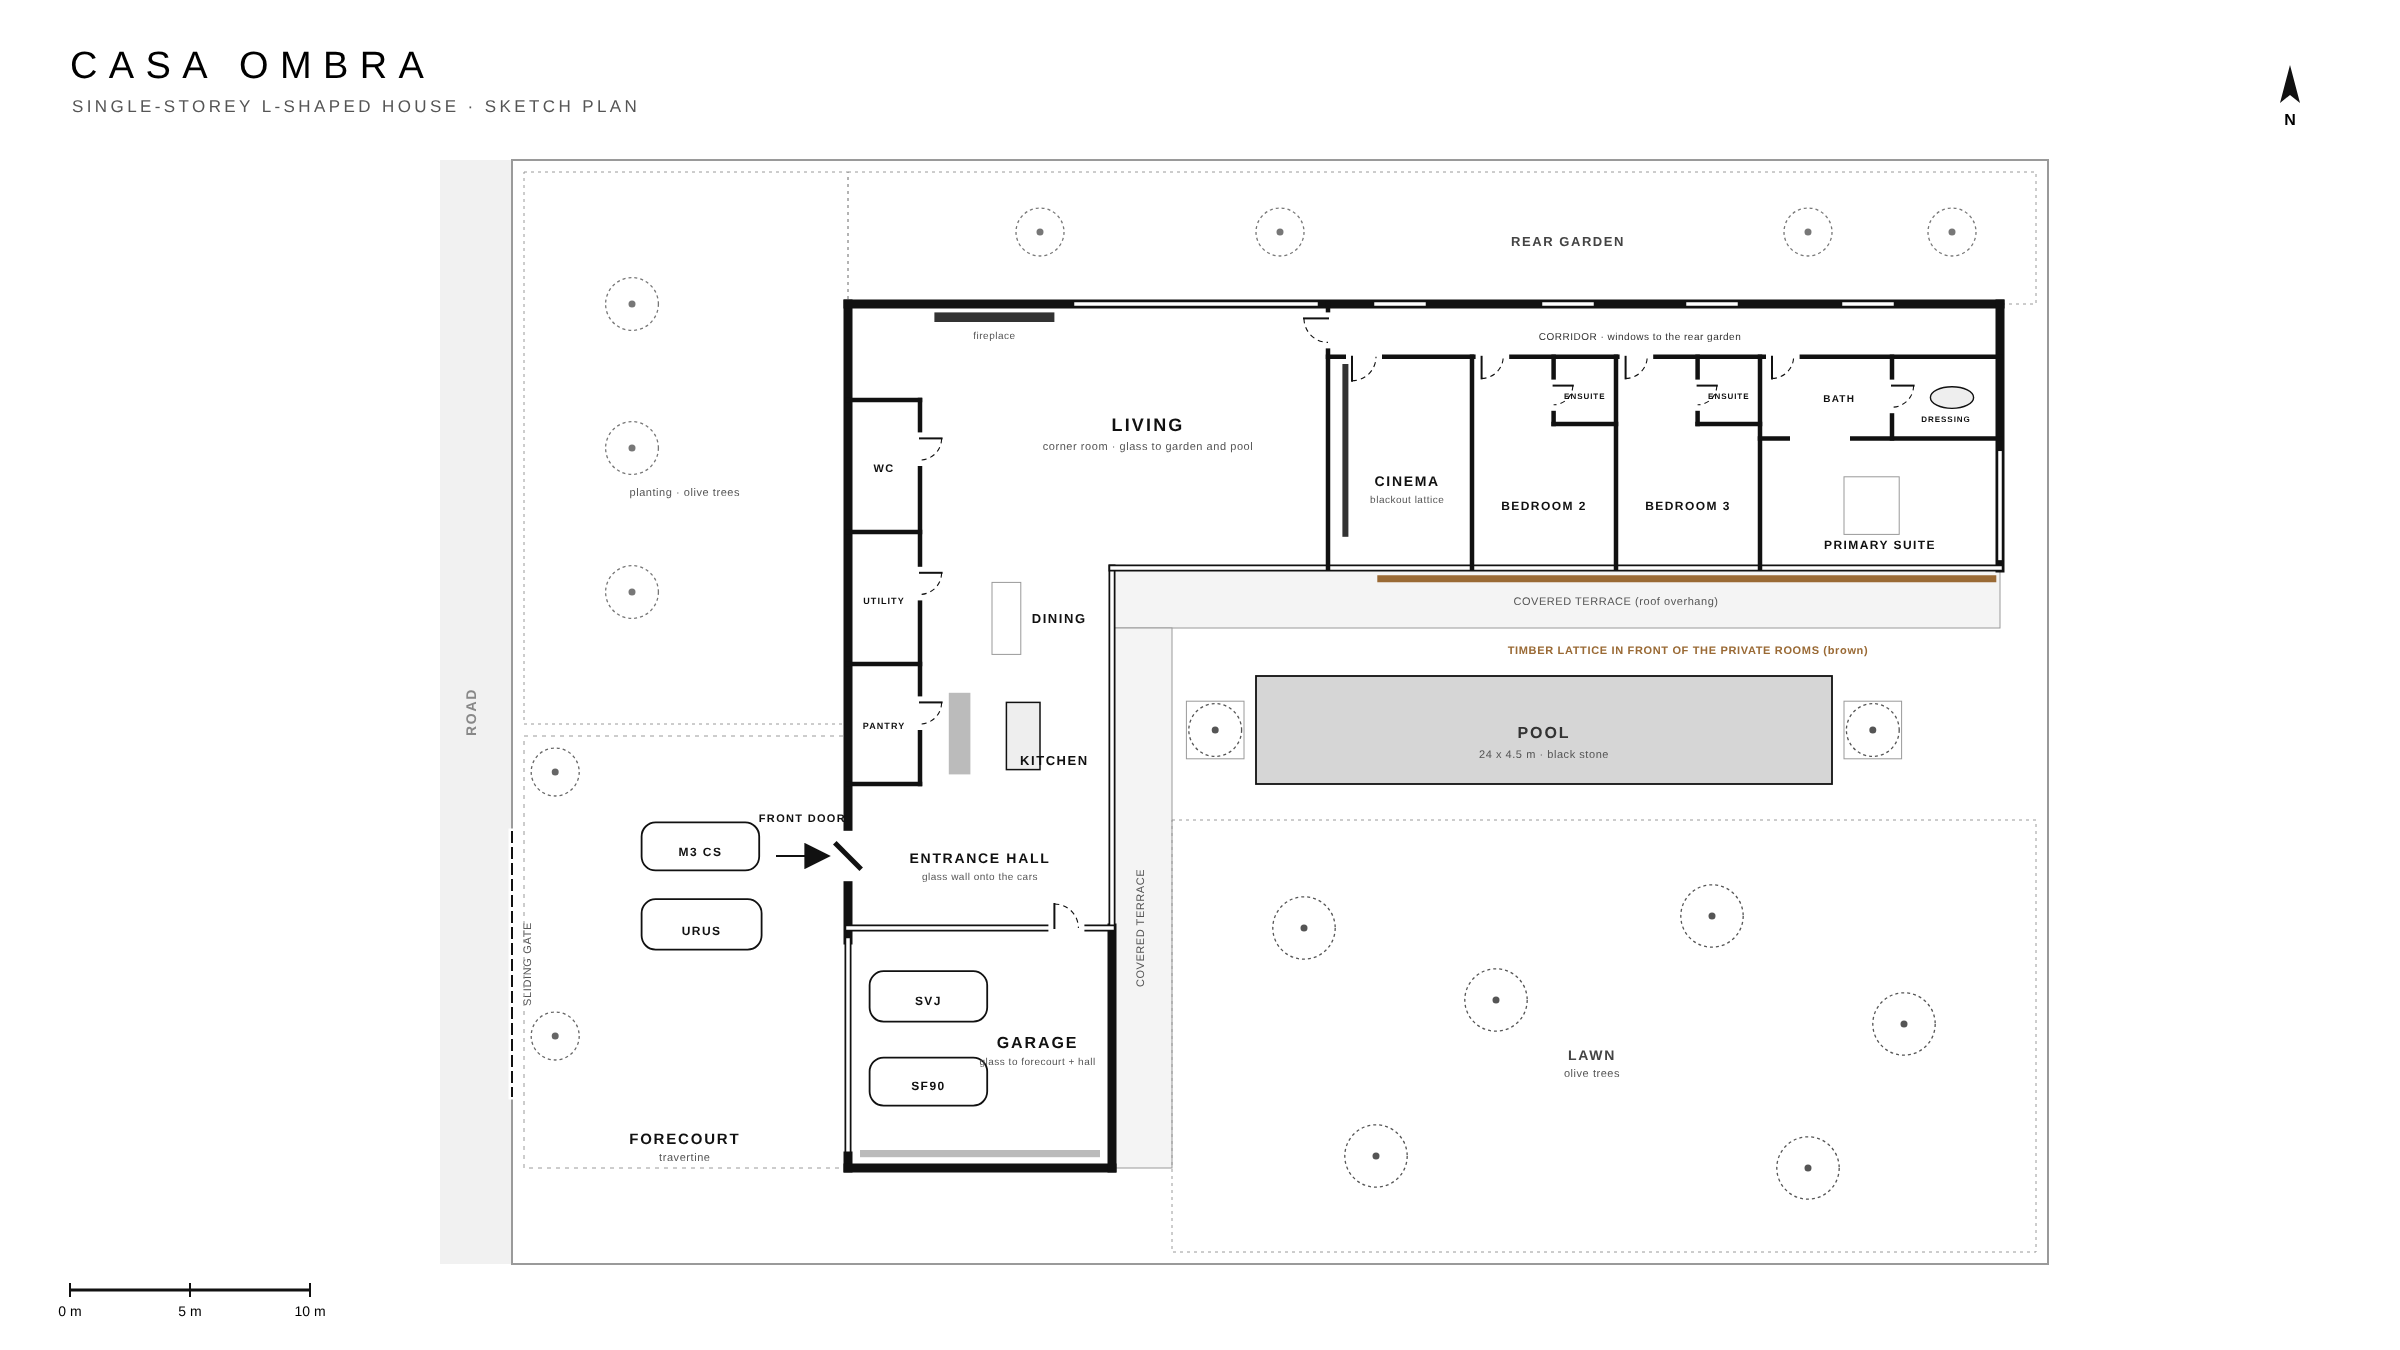
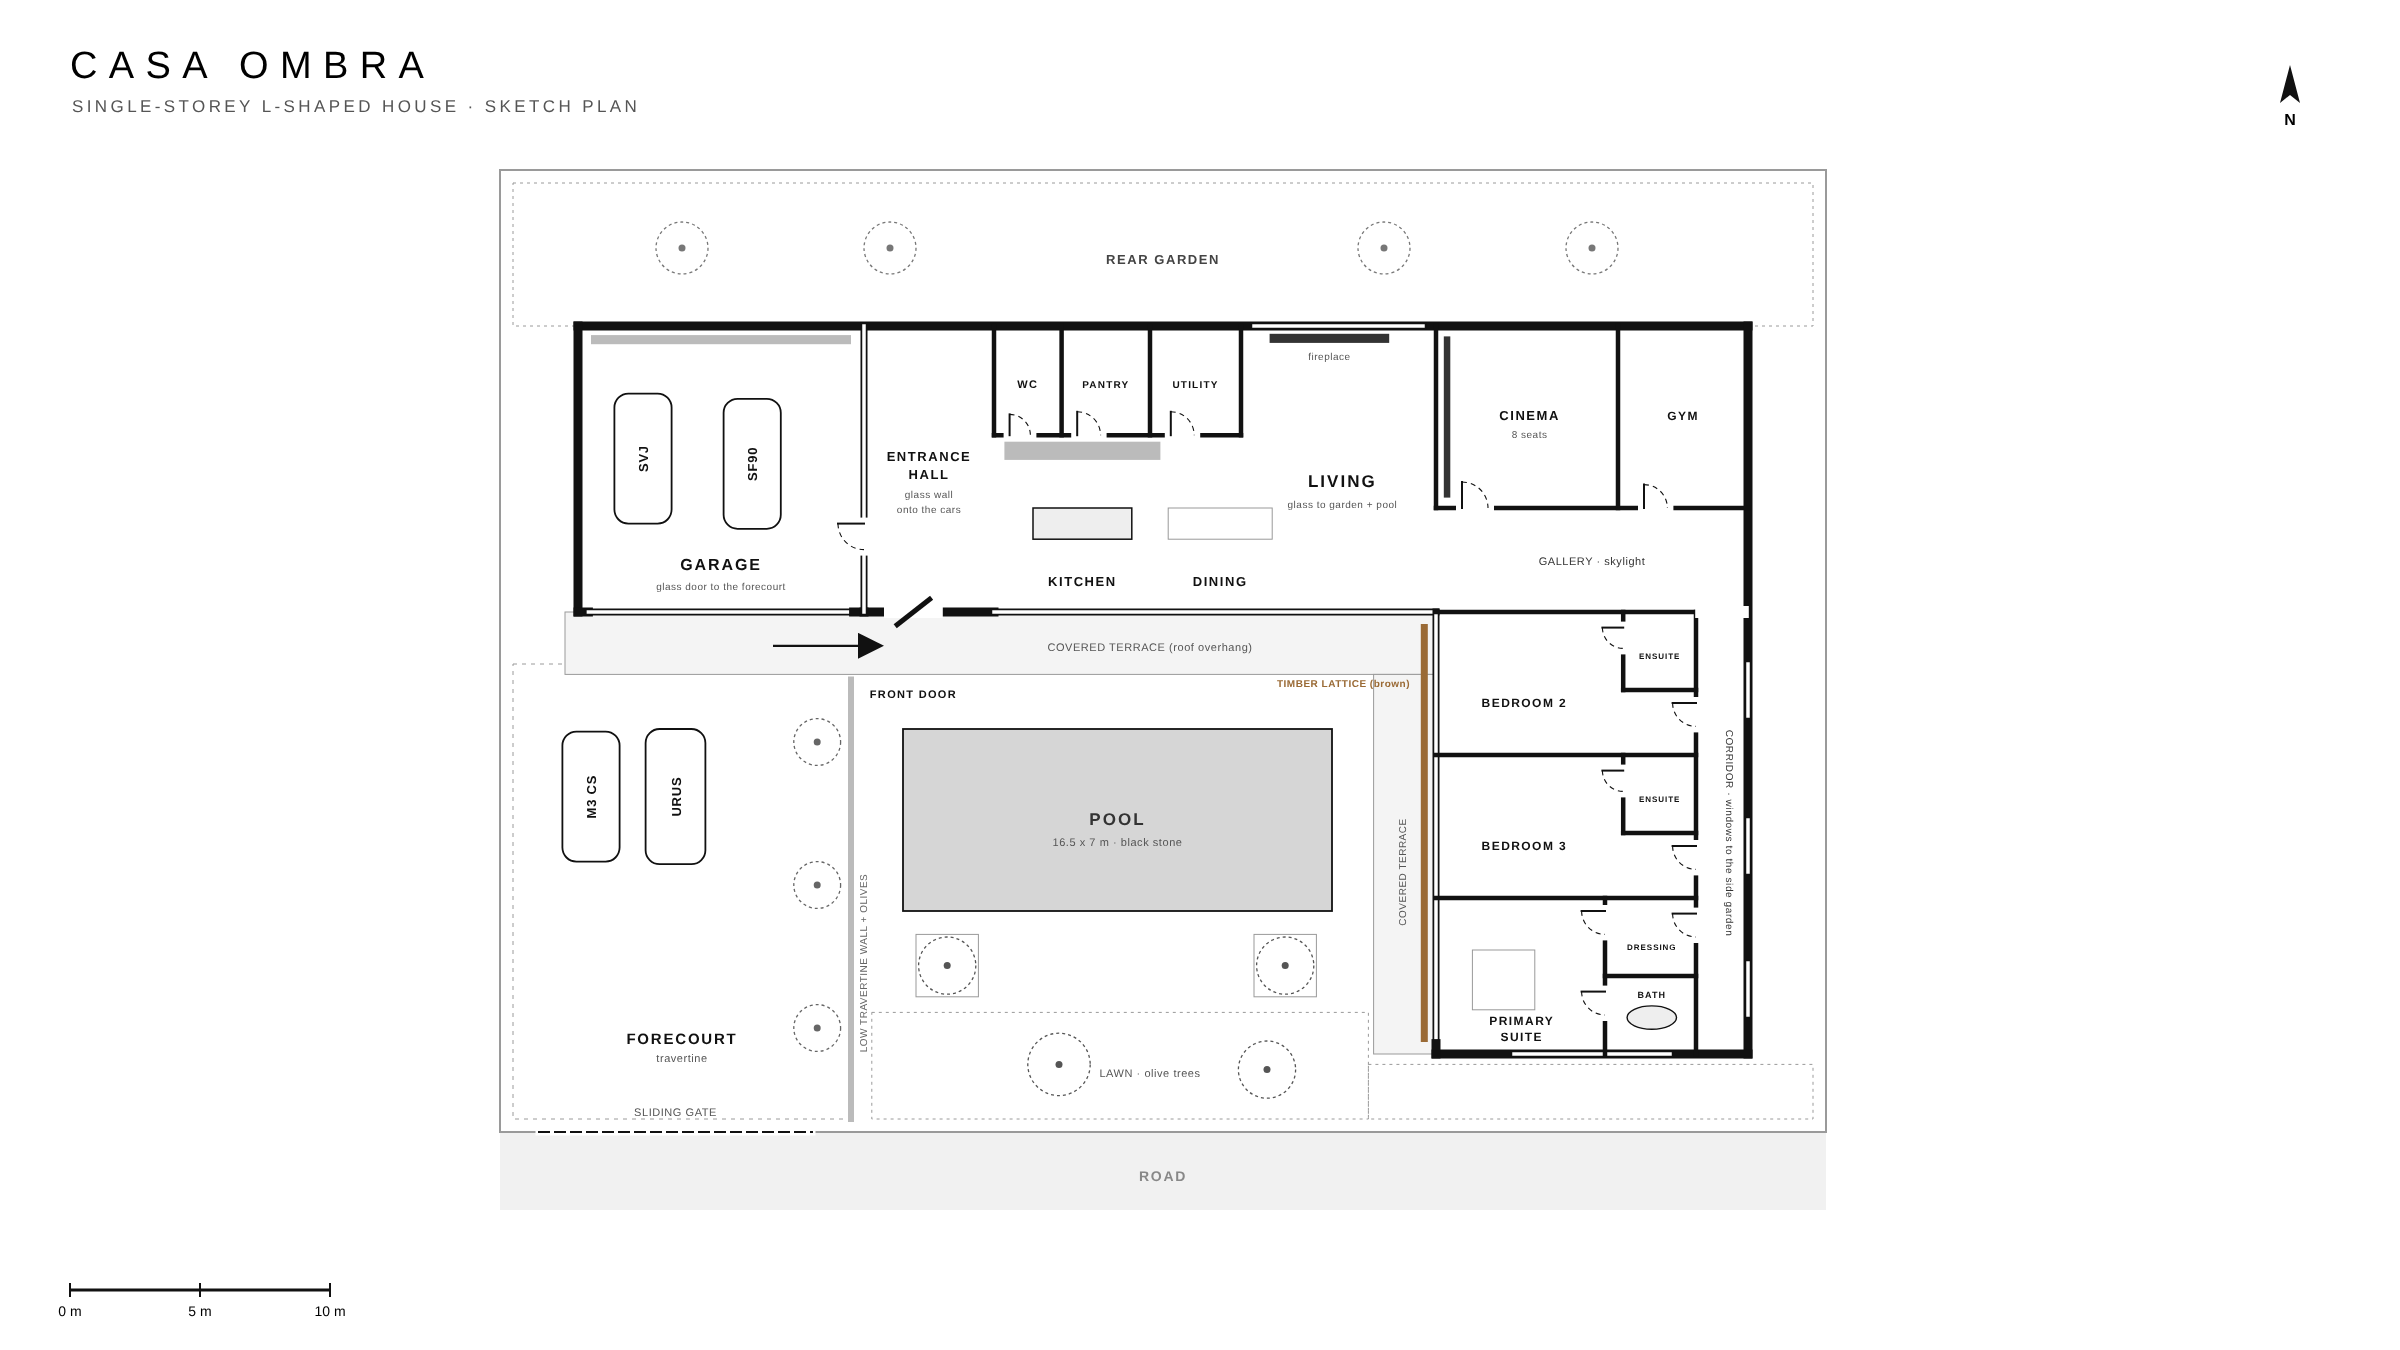
Casa Ombra v2: L-shaped single-storey plan following Mo's sketch
Claude-Session: https://claude.ai/code/session_01XZWwz38RPfRpcTZUtchytw

diff --git a/casa-ombra-v2/plan/plan_L2.py b/casa-ombra-v2/plan/plan_L2.py
@@ -1,0 +1,109 @@
+"""Casa Ombra L2 - single-storey L-shaped house following the user's AutoDraw sketch.
+Metres. X = east, Y = south. Origin = NW corner of the house. Road along the SOUTH.
+
+Main arm x 0..45,  y 0..11   (garage at the west end, living spaces facing the pool)
+East arm x 33..45, y 11..28  (bedrooms facing west onto the pool, corridor on the outside)
+Pool in the corner between the two arms; forecourt in front of the garage.
+"""
+import sys, os
+sys.path.insert(0, os.path.dirname(__file__))
+import plans as base
+
+base.S, base.OX, base.OY = 26, 578, 326
+INK, G, LAT, RED = base.INK, base.G, base.LAT, base.RED
+
+
+def draw(path):
+    p = base.P(); S = base.S
+    # ---------------- site ----------------
+    p.rect(-3, 31, 51, 3, '#f1f1f1', 'none'); p.txt(22.5, 32.9, 'ROAD', 14, 600, '#888')
+    p.rect(-3, -6, 51, 37, 'none', G, 2)
+    p.line(-1.5, 31, 9, 31, 7, '#fff'); p.line(-1.5, 31, 9, 31, 2, INK, '10 6'); p.sub(3.75, 30.4, 'SLIDING GATE', 11)
+    # forecourt
+    p.rect(-2.5, 13, 13, 17.5, 'none', G, 1, '4 5'); p.txt(4, 27.6, 'FORECOURT', 15); p.sub(4, 28.3, 'travertine', 11)
+    p.car(-0.6, 15.6, 1.6, 20.6, 'M3 CS'); p.car(2.6, 15.5, 4.9, 20.7, 'URUS')
+    p.line(10.5, 13.6, 10.5, 30.5, 6, '#bbb'); p.sub(10.0, 24, '', 10)
+    p.add(f'<text transform="translate({p.X(11.1):.1f},{p.Y(24.5):.1f}) rotate(-90)" font-size="10" letter-spacing=".05em" fill="#666" text-anchor="middle">LOW TRAVERTINE WALL + OLIVES</text>')
+    for ty in (16, 21.5, 27): p.tree(9.2, ty, 0.9, '#666')
+    # covered walkway / terraces under the roof overhang
+    p.rect(-0.5, 11, 33.5, 2.4, '#f4f4f4', G, 1); p.sub(22, 12.5, 'COVERED TERRACE (roof overhang)', 11)
+    p.rect(30.6, 13.4, 2.4, 14.6, '#f4f4f4', G, 1)
+    p.add(f'<text transform="translate({p.X(31.85):.1f},{p.Y(21):.1f}) rotate(-90)" font-size="10" letter-spacing=".05em" fill="#555" text-anchor="middle">COVERED TERRACE</text>')
+    # pool + olives + lawn
+    p.rect(12.5, 15.5, 16.5, 7, '#d6d6d6', INK, 1.8); p.txt(20.75, 19.2, 'POOL', 17, 700, '#333'); p.sub(20.75, 20.0, '16.5 x 7 m · black stone', 11)
+    for (tx, ty) in ((14.2, 24.6), (27.2, 24.6)): p.rect(tx - 1.2, ty - 1.2, 2.4, 2.4, '#fff', G, 1); p.tree(tx, ty, 1.1, '#555')
+    p.rect(11.3, 26.4, 19.1, 4.1, 'none', G, 1, '3 4'); p.rect(30.4, 28.4, 17.1, 2.1, 'none', G, 1, '3 4'); p.sub(22, 28.9, 'LAWN · olive trees', 11)
+    p.tree(18.5, 28.4, 1.2, '#555'); p.tree(26.5, 28.6, 1.1, '#555')
+    # rear garden
+    p.rect(-2.5, -5.5, 50, 5.5, 'none', G, 1, '3 4'); p.txt(22.5, -2.4, 'REAR GARDEN', 13, 700, '#444')
+    for tx in (4, 12, 31, 39): p.tree(tx, -3, 1.0, '#777')
+
+    # ---------------- house ----------------
+    p.rect(0, 0, 45, 11, '#fff', 'none'); p.rect(33, 11, 12, 17, '#fff', 'none')
+    p.wall(0, 0, 45, 0); p.wall(45, 0, 45, 28); p.wall(33, 28, 45, 28); p.wall(0, 0, 0, 11)
+    # south face of the main arm
+    p.wall(0, 11, 0.4, 11); p.glass(0.4, 11, 10.6, 11); p.wall(10.6, 11, 11, 11)       # garage glass
+    p.wall(11, 11, 12.0, 11); p.wall(13.8, 11, 16, 11)                                    # hall: solid + front door gap
+    p.glass(16, 11, 33, 11)                                                               # kitchen / dining / living glass to the pool
+    # west face of the east arm
+    p.glass(33, 11, 33, 27.6); p.wall(33, 27.6, 33, 28)
+    p.lattice(32.55, 11.6, 32.55, 27.4)
+    # rear windows
+    p.glass(26, 0, 32.5, 0)                                                                # living to the rear garden
+    p.glass(45, 13, 45, 15); p.glass(45, 19, 45, 21); p.glass(45, 24.5, 45, 26.5)          # corridor windows (east)
+    p.glass(36, 28, 42, 28)                                                                # primary suite to the south lawn
+    # front door
+    p.gap(12.0, 11, 13.8, 11)
+    p.add(f'<line x1="{p.X(12.2):.1f}" y1="{p.Y(11.55):.1f}" x2="{p.X(13.6):.1f}" y2="{p.Y(10.45):.1f}" stroke="{INK}" stroke-width="5"/>')
+    p.add(f'<line x1="{p.X(7.5):.1f}" y1="{p.Y(12.3):.1f}" x2="{p.X(11.6):.1f}" y2="{p.Y(12.3):.1f}" stroke="{INK}" stroke-width="2.2" marker-end="url(#ah)"/>')
+    p.txt(12.9, 14.3, 'FRONT DOOR', 11)
+    # garage | hall: glass wall + door
+    p.glass(11, 0, 11, 11); p.door_v(11, 7.6, 1.0, 'w')
+    # hall | services/kitchen
+    p.iwall(16, 0, 16, 4.2)
+    # services strip y 0..4.2 : WC | pantry | utility, then cinema
+    p.iwall(16, 4.2, 25.5, 4.2); p.iwall(18.6, 0, 18.6, 4.2); p.iwall(22, 0, 22, 4.2); p.iwall(25.5, 0, 25.5, 4.2)
+    p.door_h(16.6, 4.2, 0.8, 'n'); p.door_h(19.2, 4.2, 0.9, 'n'); p.door_h(22.8, 4.2, 0.9, 'n')
+    # corner block: cinema | gym, gallery to the bedroom wing
+    p.iwall(33, 0, 33, 7); p.iwall(33, 7, 45, 7); p.iwall(40, 0, 40, 7)
+    p.door_h(34, 7, 1.0, 'n'); p.door_h(41, 7, 0.9, 'n')
+    p.gap(33, 7.6, 33, 10.6)                                                               # living -> gallery opening
+    # east arm: corridor x 43..45, rooms x 33..43
+    p.iwall(43, 11, 43, 28); p.iwall(33, 11, 43, 11)
+    p.gap(43.2, 11, 44.8, 11)
+    for (y0, y1, name) in ((11, 16.5, 'BEDROOM 2'), (16.5, 22, 'BEDROOM 3')):
+        p.iwall(33, y1, 43, y1)
+        p.iwall(40.2, y0, 40.2, y0 + 3.0); p.iwall(40.2, y0 + 3.0, 43, y0 + 3.0)       # ensuite box against the corridor
+        p.door_v(43, y0 + 3.5, 0.9, 'w'); p.door_v(40.2, y0 + 0.6, 0.8, 'w')
+        p.txt(36.4, (y0 + y1) / 2 + 0.9, name, 12); p.txt(41.6, y0 + 1.8, 'ENSUITE', 8)
+    # primary suite y 22..28: bath + dressing against the corridor
+    p.iwall(39.5, 22, 39.5, 28); p.iwall(39.5, 25, 43, 25)
+    p.door_v(43, 22.6, 0.9, 'w'); p.door_v(39.5, 25.6, 0.9, 'w'); p.door_v(39.5, 22.5, 0.9, 'w')
+    p.add(f'<ellipse cx="{p.X(41.3):.1f}" cy="{p.Y(26.6):.1f}" rx="{0.95*S:.1f}" ry="{0.45*S:.1f}" fill="#eee" stroke="{INK}" stroke-width="1.4"/>')
+    p.rect(34.4, 24.0, 2.4, 2.3, 'none', '#999', 1)
+    # fixed items
+    p.rect(0.5, 0.35, 10, 0.35, '#bbb', 'none')
+    p.rect(26.6, 0.3, 4.6, 0.35, '#333', 'none'); p.sub(28.9, 1.3, 'fireplace', 10)
+    p.rect(16.4, 4.45, 6.0, 0.7, '#bbb', 'none'); p.rect(17.5, 7.0, 3.8, 1.2, '#eee')       # kitchen run + island
+    p.rect(22.7, 7.0, 4.0, 1.2, 'none', '#999', 1)                                         # dining table
+    p.rect(33.3, 0.4, 0.25, 6.2, '#333', 'none')                                           # cinema screen
+    p.car(1.4, 2.6, 3.6, 7.6, 'SVJ'); p.car(5.6, 2.8, 7.8, 7.8, 'SF90')
+    # labels
+    p.txt(5.5, 9.4, 'GARAGE', 16); p.sub(5.5, 10.15, 'glass door to the forecourt', 10)
+    p.txt(13.5, 5.2, 'ENTRANCE', 13); p.txt(13.5, 5.9, 'HALL', 13); p.sub(13.5, 6.6, 'glass wall', 10); p.sub(13.5, 7.2, 'onto the cars', 10)
+    p.txt(17.3, 2.4, 'WC', 11); p.txt(20.3, 2.4, 'PANTRY', 10); p.txt(23.75, 2.4, 'UTILITY', 10)
+    p.txt(19.4, 10.0, 'KITCHEN', 13); p.txt(24.7, 10.0, 'DINING', 13)
+    p.txt(29.4, 6.2, 'LIVING', 17); p.sub(29.4, 7.0, 'glass to garden + pool', 10)
+    p.txt(36.6, 3.6, 'CINEMA', 13); p.sub(36.6, 4.3, '8 seats', 10)
+    p.txt(42.5, 3.6, 'GYM', 12)
+    p.sub(39, 9.2, 'GALLERY · skylight', 11, '#333')
+    p.add(f'<text transform="translate({p.X(44.15):.1f},{p.Y(19.5):.1f}) rotate(90)" font-size="10" letter-spacing=".06em" fill="#333" text-anchor="middle">CORRIDOR · windows to the side garden</text>')
+    p.txt(36.3, 26.9, 'PRIMARY', 12); p.txt(36.3, 27.5, 'SUITE', 12)
+    p.txt(41.3, 24.0, 'DRESSING', 8); p.txt(41.3, 25.85, 'BATH', 9)
+    p.add(f'<text transform="translate({p.X(32.0):.1f},{p.Y(13.9):.1f})" font-size="10" font-weight="700" letter-spacing=".05em" fill="{LAT}" text-anchor="end">TIMBER LATTICE (brown)</text>')
+    p.frame('SINGLE-STOREY L-SHAPED HOUSE · SKETCH PLAN')
+    p.write(path)
+
+
+if __name__ == '__main__':
+    draw(sys.argv[1])

diff --git a/casa-ombra-v2/README.md b/casa-ombra-v2/README.md
@@ -4,14 +4,16 @@ Same style as v1 (warm board-marked concrete, travertine, timber lattice, black 
 olive trees, M3 CS + Mansory Urus outside, SVJ + SF90 in a glass garage), but a simple
 house that is easy to keep consistent across every image.
 
-## The house (single storey, L-shaped)
-- West arm (street side): glass garage facing the forecourt, entrance hall with a glass
-  wall onto the cars, kitchen, dining; WC / utility / pantry along the solid street wall.
-- Corner: living room, glass to the rear garden and to the pool courtyard.
-- North arm (private): corridor along the back, then cinema, bedroom 2, bedroom 3 and the
-  primary suite, all facing the pool behind a timber lattice.
-- Courtyard inside the L: covered terraces under the roof overhang, a 24 x 4.5 m black
-  pool with an olive tree at each end, lawn with olive trees. Road along the west.
+## The house (single storey, L-shaped, from Mo's sketch)
+- Main arm along the back (north), west to east: glass garage facing the forecourt,
+  entrance hall with a glass wall onto the cars, kitchen, dining, living (glass to the
+  pool and the rear garden). WC / pantry / utility in a strip behind the kitchen.
+- Corner: cinema and gym, and a skylit gallery leading to the bedroom wing.
+- East arm (south from the corner): bedroom 2, bedroom 3, primary suite, all facing west
+  onto the pool through glass and a timber lattice; corridor along the outside.
+- Pool in the corner between the arms; forecourt with the M3 CS and Urus in front of the
+  garage, separated from the pool garden by a low travertine wall with olive trees.
+  Road along the south.
 
 ## Steps
 1. Brief: done (this file)
